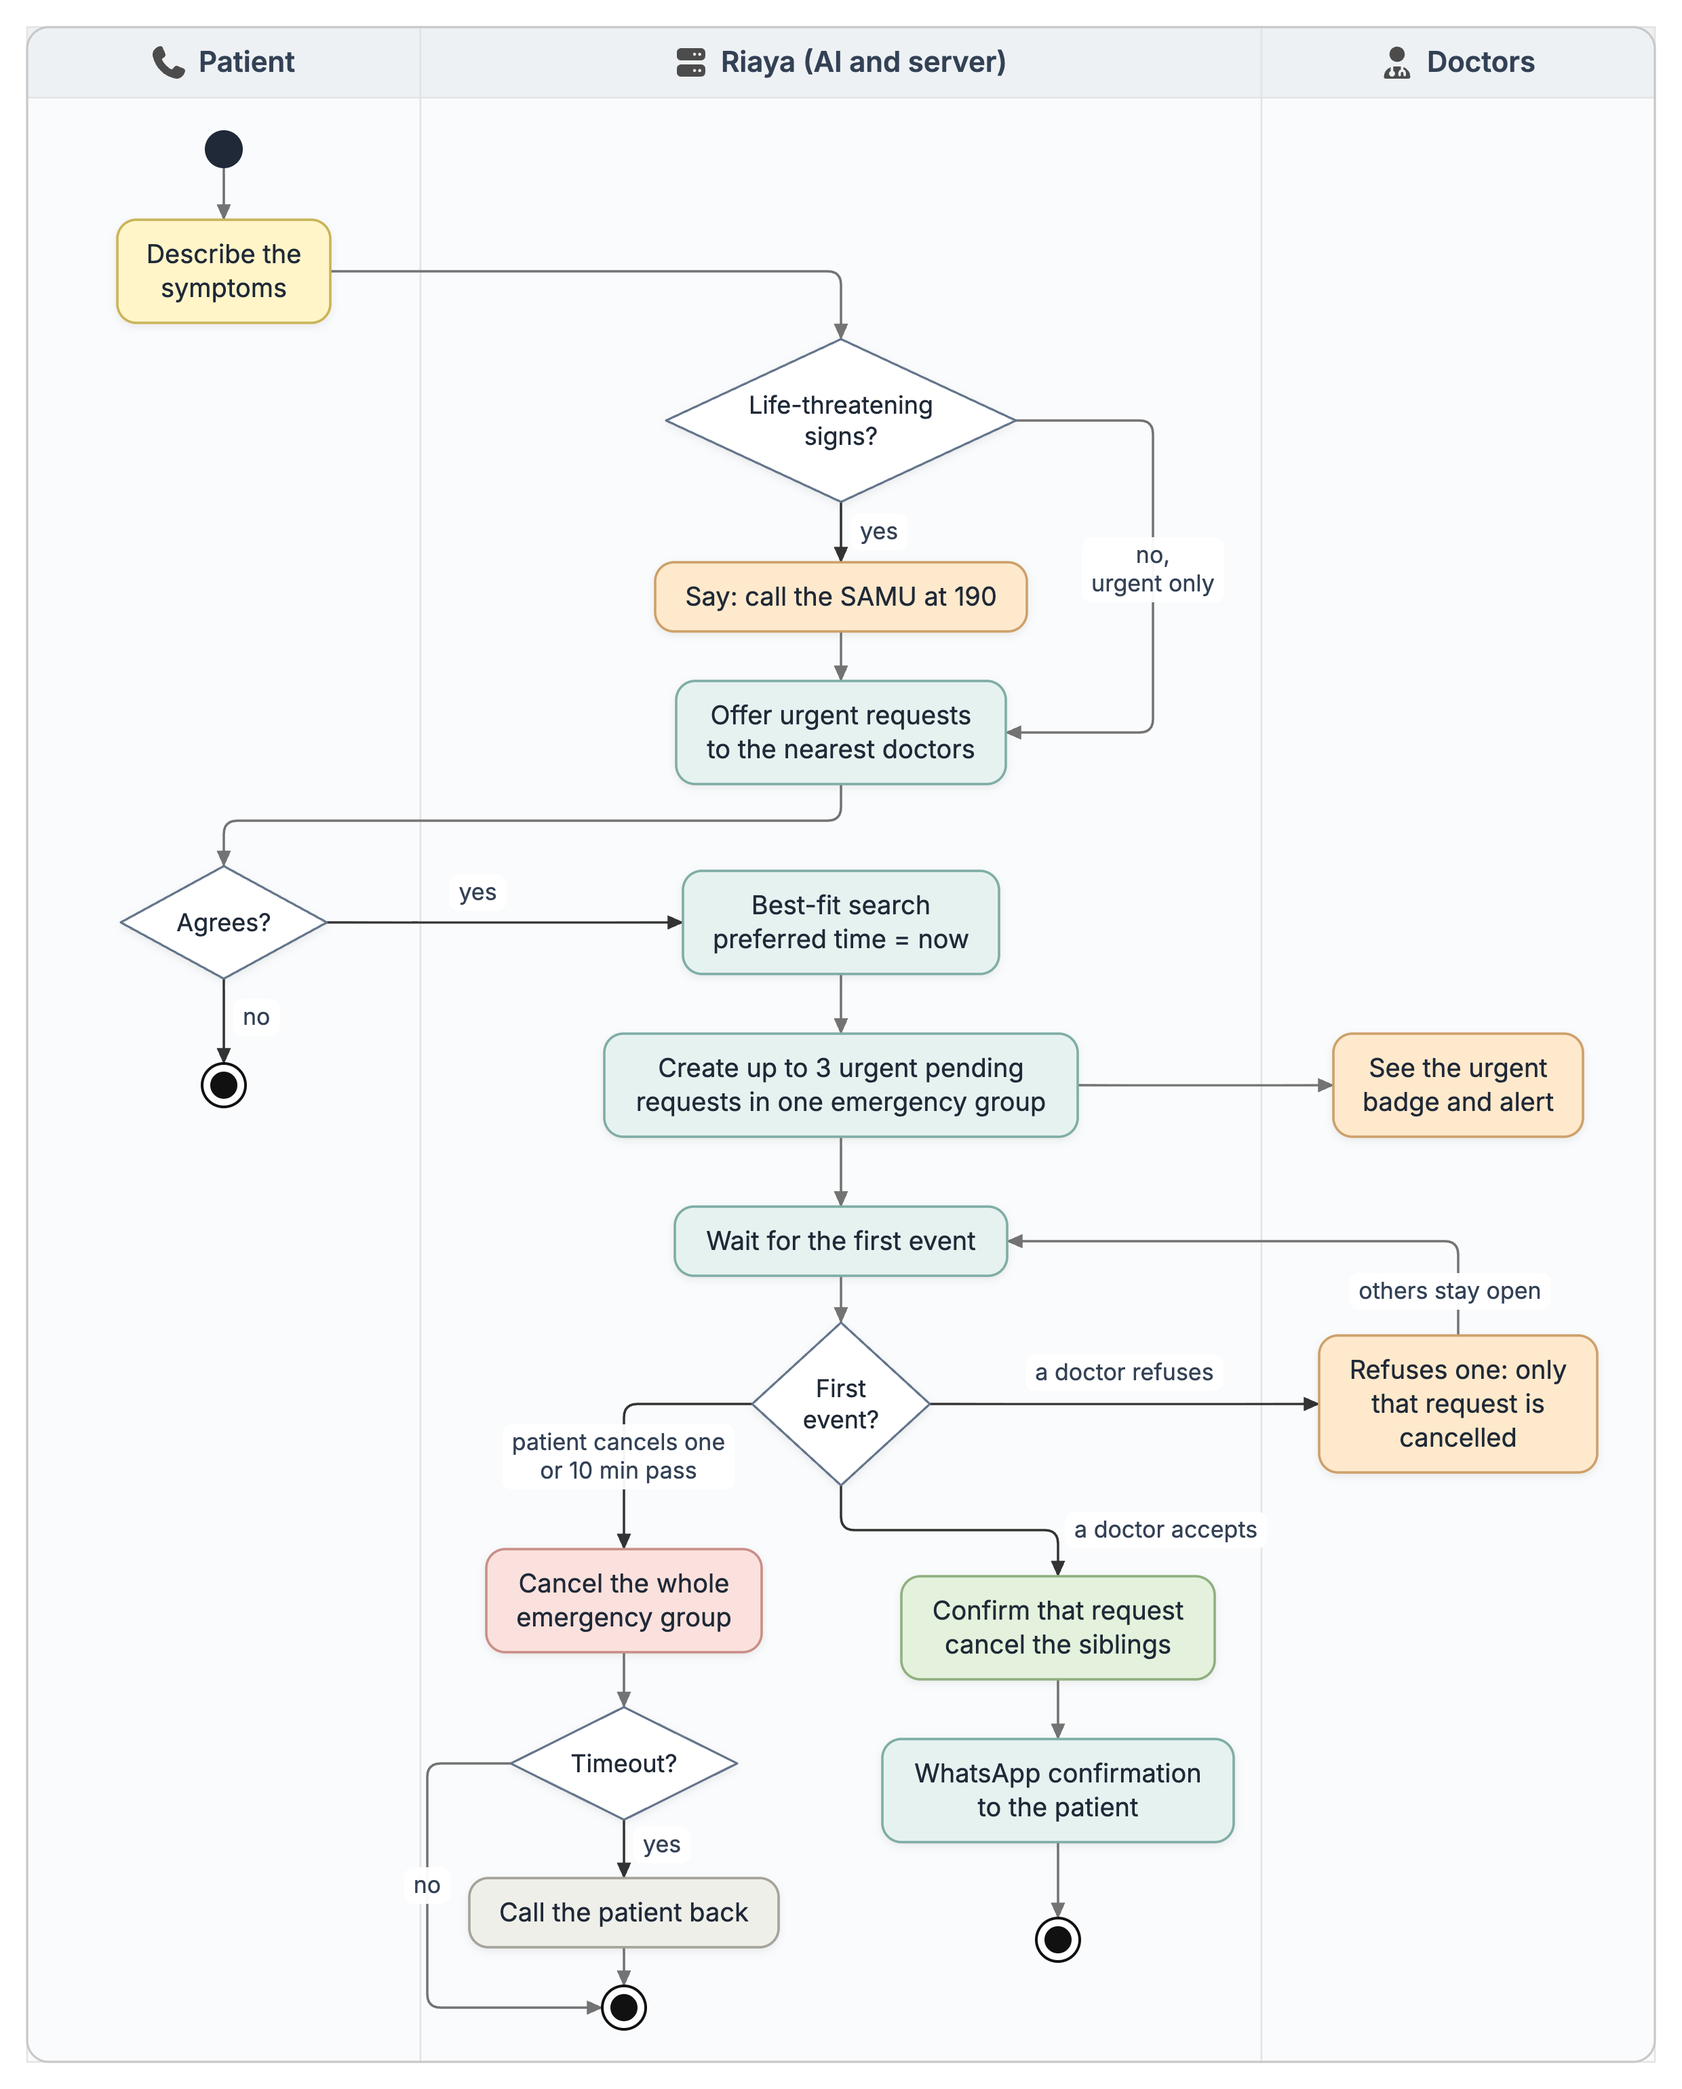
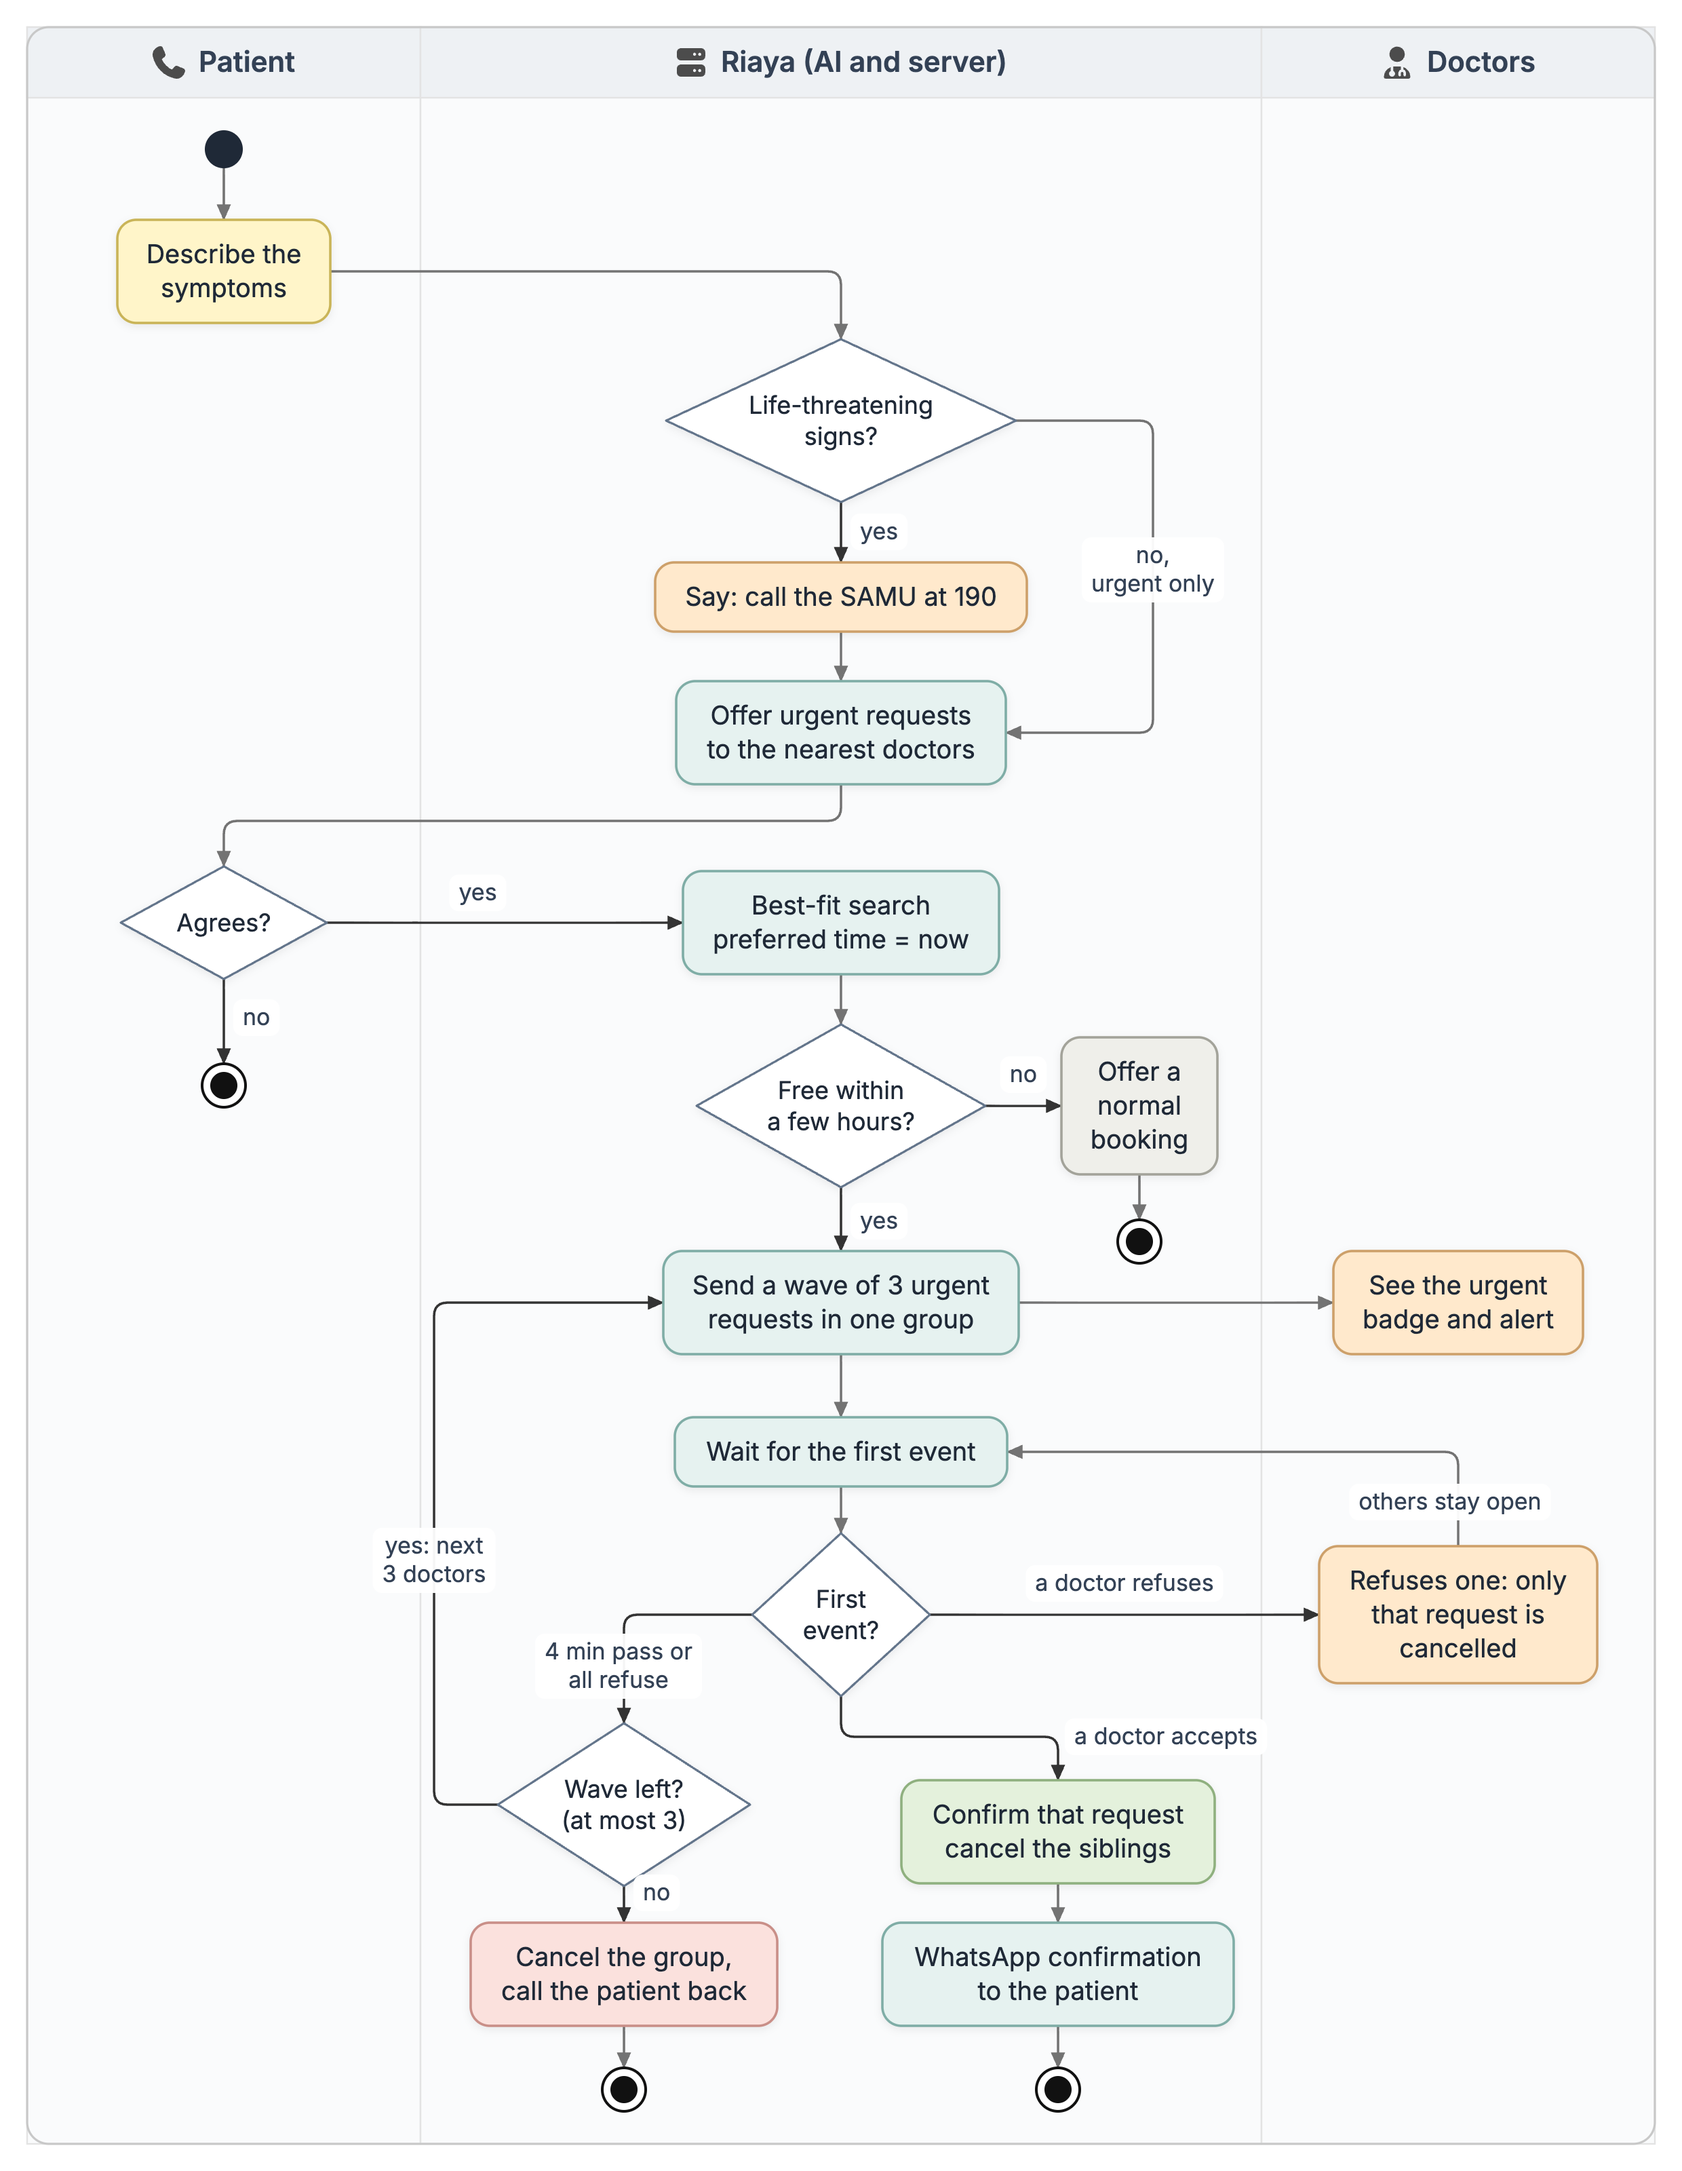
Describe urgent requests as waves of doctors who can see the patient soon
Chapter 2, chapter 3b and the urgent activity diagram now show the 6-hour
check with a normal booking as fallback, waves of 3 requests (4 minutes each,
at most 3 waves), the next wave starting when all refuse, and the callback
only after the last wave.

diff --git a/images/diagrams/src/activity_urgent_booking.js b/images/diagrams/src/activity_urgent_booking.js
@@ -1,14 +1,15 @@
-// Activity: urgent booking (SAMU advice, emergency group of up to 3 requests, first accept wins).
+// Activity: urgent booking (SAMU advice, doctors free within a few hours, waves of 3 requests, first accept wins).
 const I = 'icons/';
 function draw(K) {
-  K.init(1240, 1540);
+  K.init(1240, 1600);
   const E = (o) => K.edge(o);
-  const ln = K.lanes({x: 20, y: 20, h: 1500, lanes: [
+  const ln = K.lanes({x: 20, y: 20, h: 1560, lanes: [
     {key: 'P', kind: 'patient', title: 'Patient', w: 290, icon: I + 'phone.svg'},
     {key: 'R', kind: 'sys', title: 'Riaya (AI and server)', w: 620, icon: I + 'server.svg'},
     {key: 'D', kind: 'admin', title: 'Doctors', w: 290, icon: I + 'user-doctor.svg'},
   ]});
   const P = ln.P, R = ln.R, D = ln.D, RL = R - 160, RR = R + 160;
+  const LOOP = RL - 140;
 
   K.start({id: 's', cx: P, cy: 110});
   K.act({id: 'sym', cx: P, cy: 200, text: 'Describe the\nsymptoms', kind: 'patient'});
@@ -18,18 +19,20 @@ function draw(K) {
   K.dec({id: 'agree', cx: P, cy: 680, text: 'Agrees?'});
   K.end({id: 'e0', cx: P, cy: 800});
   K.act({id: 'fit', cx: R, cy: 680, text: 'Best-fit search\npreferred time = now', kind: 'sys'});
-  K.act({id: 'create', cx: R, cy: 800, text: 'Create up to 3 urgent pending\nrequests in one emergency group', kind: 'sys'});
-  K.act({id: 'badge', cx: D, cy: 800, text: 'See the urgent\nbadge and alert', kind: 'admin'});
-  K.act({id: 'wait', cx: R, cy: 915, text: 'Wait for the first event', kind: 'sys'});
-  K.dec({id: 'ev', cx: R, cy: 1035, text: 'First\nevent?'});
-  K.act({id: 'refuse', cx: D, cy: 1035, text: 'Refuses one: only\nthat request is\ncancelled', kind: 'admin'});
-  K.act({id: 'cancel', cx: RL, cy: 1180, text: 'Cancel the whole\nemergency group', kind: 'bad'});
-  K.dec({id: 'to', cx: RL, cy: 1300, text: 'Timeout?'});
-  K.act({id: 'cb', cx: RL, cy: 1410, text: 'Call the patient back', kind: 'neutral'});
-  K.act({id: 'acc', cx: RR, cy: 1200, text: 'Confirm that request\ncancel the siblings', kind: 'good'});
-  K.act({id: 'wa', cx: RR, cy: 1320, text: 'WhatsApp confirmation\nto the patient', kind: 'sys'});
-  K.end({id: 'e1', cx: RR, cy: 1430});
-  K.end({id: 'e2', cx: RL, cy: 1480});
+  K.dec({id: 'soon', cx: R, cy: 815, text: 'Free within\na few hours?'});
+  K.act({id: 'normal', cx: RR + 60, cy: 815, text: 'Offer a\nnormal\nbooking', kind: 'neutral'});
+  K.end({id: 'e3', cx: RR + 60, cy: 915});
+  K.act({id: 'create', cx: R, cy: 960, text: 'Send a wave of 3 urgent\nrequests in one group', kind: 'sys'});
+  K.act({id: 'badge', cx: D, cy: 960, text: 'See the urgent\nbadge and alert', kind: 'admin'});
+  K.act({id: 'wait', cx: R, cy: 1070, text: 'Wait for the first event', kind: 'sys'});
+  K.dec({id: 'ev', cx: R, cy: 1190, text: 'First\nevent?'});
+  K.act({id: 'refuse', cx: D, cy: 1190, text: 'Refuses one: only\nthat request is\ncancelled', kind: 'admin'});
+  K.dec({id: 'more', cx: RL, cy: 1330, text: 'Wave left?\n(at most 3)'});
+  K.act({id: 'cb', cx: RL, cy: 1455, text: 'Cancel the group,\ncall the patient back', kind: 'bad'});
+  K.end({id: 'e2', cx: RL, cy: 1540});
+  K.act({id: 'acc', cx: RR, cy: 1350, text: 'Confirm that request\ncancel the siblings', kind: 'good'});
+  K.act({id: 'wa', cx: RR, cy: 1455, text: 'WhatsApp confirmation\nto the patient', kind: 'sys'});
+  K.end({id: 'e1', cx: RR, cy: 1540});
 
   E({pts: [K.P('s', 'b'), K.P('sym', 't')]});
   E({pts: [K.P('sym', 'r'), [R, K.P('sym', 'r')[1]], K.P('life', 't')]});
@@ -43,27 +46,32 @@ function draw(K) {
   K.guard((K.P('agree', 'r')[0] + K.P('fit', 'l')[0]) / 2 - 20, 658, 'yes', '#111111');
   E({pts: [K.P('agree', 'b'), K.P('e0', 't')], kind: 'amber'});
   K.guard(P + 14, 750, 'no', '#111111', 'start');
-  E({pts: [K.P('fit', 'b'), K.P('create', 't')]});
+  E({pts: [K.P('fit', 'b'), K.P('soon', 't')]});
+  // nobody free soon
+  E({pts: [K.P('soon', 'r'), K.P('normal', 'l')], kind: 'amber'});
+  K.guard((K.P('soon', 'r')[0] + K.P('normal', 'l')[0]) / 2, 792, 'no', '#111111');
+  E({pts: [K.P('normal', 'b'), K.P('e3', 't')]});
+  E({pts: [K.P('soon', 'b'), K.P('create', 't')], kind: 'amber'});
+  K.guard(R + 14, 900, 'yes', '#111111', 'start');
   E({pts: [K.P('create', 'r'), K.P('badge', 'l')]});
   E({pts: [K.P('create', 'b'), K.P('wait', 't')]});
   E({pts: [K.P('wait', 'b'), K.P('ev', 't')]});
   // refusal loop
   E({pts: [K.P('ev', 'r'), K.P('refuse', 'l')], kind: 'amber'});
-  K.guard((K.P('ev', 'r')[0] + K.P('refuse', 'l')[0]) / 2, 1012, 'a doctor refuses');
-  E({pts: [K.P('refuse', 't'), [D, 915], K.P('wait', 'r')]});
-  K.guard(D - 6, 952, 'others stay open', '#111111');
-  // patient cancel or timeout
-  E({pts: [K.P('ev', 'l'), [RL, 1035], K.P('cancel', 't')], kind: 'amber'});
-  K.guard(RL - 4, 1074, 'patient cancels one\nor 10 min pass', '#333333');
-  E({pts: [K.P('cancel', 'b'), K.P('to', 't')]});
-  E({pts: [K.P('to', 'b'), K.P('cb', 't')], kind: 'amber'});
-  K.guard(RL + 14, 1360, 'yes', '#111111', 'start');
+  K.guard((K.P('ev', 'r')[0] + K.P('refuse', 'l')[0]) / 2, 1167, 'a doctor refuses');
+  E({pts: [K.P('refuse', 't'), [D, 1070], K.P('wait', 'r')]});
+  K.guard(D - 6, 1107, 'others stay open', '#111111');
+  // wave over: next wave or callback
+  E({pts: [K.P('ev', 'l'), [RL, 1190], K.P('more', 't')], kind: 'amber'});
+  K.guard(RL - 4, 1228, '4 min pass or\nall refuse', '#333333');
+  E({pts: [K.P('more', 'l'), [LOOP, 1330], [LOOP, 960], K.P('create', 'l')], kind: 'amber'});
+  K.guard(LOOP, 1150, 'yes: next\n3 doctors', '#111111');
+  E({pts: [K.P('more', 'b'), K.P('cb', 't')], kind: 'amber'});
+  K.guard(RL + 14, 1395, 'no', '#111111', 'start');
   E({pts: [K.P('cb', 'b'), K.P('e2', 't')]});
-  E({pts: [K.P('to', 'l'), [RL - 145, 1300], [RL - 145, 1480], K.P('e2', 'l')]});
-  K.guard(RL - 145, 1390, 'no');
   // accept
-  E({pts: [K.P('ev', 'b'), [R, 1128], [RR, 1128], K.P('acc', 't')], kind: 'amber'});
-  K.guard(RR + 12, 1128, 'a doctor accepts', '#111111', 'start');
+  E({pts: [K.P('ev', 'b'), [R, 1280], [RR, 1280], K.P('acc', 't')], kind: 'amber'});
+  K.guard(RR + 12, 1280, 'a doctor accepts', '#111111', 'start');
   E({pts: [K.P('acc', 'b'), K.P('wa', 't')]});
   E({pts: [K.P('wa', 'b'), K.P('e1', 't')]});
 }

diff --git a/chap_03b.tex b/chap_03b.tex
@@ -52,7 +52,7 @@ While the patient waits on the line, the platform has to turn ``a dermatologist 
 
 Some callers are in danger. When a caller describes signs of a life-threatening condition, such as chest pain, trouble breathing, signs of a stroke, heavy bleeding, fainting, a seizure or a serious injury, the AI first tells them to call the SAMU at 190. Riaya books visits and does not replace the emergency services, so the offer of urgent requests to nearby doctors only comes after that advice. For urgent cases that are not life-threatening, the AI asks whether the patient wants the closest available doctors right now. \xref{fig:activity_urgent} in \chapref{chap:management} shows the whole flow.
 
-A patient in an urgent case should not wait 10 minutes for one doctor and then start again. An urgent booking therefore runs the best-fit search with ``now'' as the preferred time and sends up to 3 pending requests at once, all sharing one emergency group id. The first doctor to accept keeps the patient and the other requests of the group are cancelled automatically, so the patient never ends up with several appointments. A doctor who refuses cancels only their own request, since the others can still accept, and for the same reason a refused urgent request triggers no callback. When the patient cancels one urgent request by phone, the whole group is cancelled. If nobody accepts within 10 minutes, a delayed BullMQ job cancels the group and Riaya calls the patient back, as for a normal request. Urgent requests are never limited by a doctor's plan. The delayed jobs and the events between the servers follow the message-based style described by Hohpe and Woolf.
+A patient in an urgent case should not wait 10 minutes for one doctor and then start again. An urgent booking therefore runs the best-fit search with ``now'' as the preferred time and keeps only the doctors inside the search radius whose first free slot starts within the next 6 hours, once the drive to the cabinet is counted. If no doctor qualifies, no request is sent and the AI offers a normal booking. Otherwise the requests go out in waves. The first wave sends pending requests to the 3 best doctors, all sharing one emergency group id. The first doctor to accept keeps the patient and the other requests of the group are cancelled automatically, so the patient never ends up with several appointments. A doctor who refuses cancels only their own request, since the others can still accept. If nobody in the wave accepts within 4 minutes, a delayed BullMQ job cancels its open requests and sends the next 3 doctors who were not asked yet, for at most 3 waves. When every doctor of a wave refuses, the next wave starts right away. Riaya calls the patient back, as for a normal request, only after the last wave or when no other doctor qualifies. When the patient cancels one urgent request by phone, the whole group is cancelled. Urgent requests are never limited by a doctor's plan. The delayed jobs and the events between the servers follow the message-based style described by Hohpe and Woolf.
 
 \subsection{Refusals and Callbacks}
 \label{subsec:rejection-handling}

diff --git a/chap_02.tex b/chap_02.tex
@@ -258,7 +258,7 @@ The two activity diagrams use swimlanes to show who does each step. Decisions ar
     \label{fig:activity_signup}
 \end{figure}
 
-\xref{fig:activity_urgent} shows an urgent booking. The patient describes the symptoms. If the signs are life-threatening, the AI first tells the patient to call the SAMU at 190, then offers urgent requests to the nearest doctors. For an urgent case that is not life-threatening, it offers the urgent requests directly. If the patient agrees, Riaya runs the best-fit search with the preferred time set to now and creates up to three urgent pending requests in one emergency group. The doctors see an urgent badge and a stronger alert, and Riaya waits for the first event. If a doctor accepts, that request is confirmed, the sibling requests are cancelled and the patient receives a WhatsApp confirmation. If a doctor refuses, only that request is cancelled and the others stay open. If the patient cancels one of the requests, or 10 minutes pass with no acceptance, the whole group is cancelled, and Riaya calls the patient back only in the timeout case.
+\xref{fig:activity_urgent} shows an urgent booking. The patient describes the symptoms. If the signs are life-threatening, the AI first tells the patient to call the SAMU at 190, then offers urgent requests to the nearest doctors. For an urgent case that is not life-threatening, it offers the urgent requests directly. If the patient agrees, Riaya runs the best-fit search with the preferred time set to now and keeps the nearby doctors who can see the patient within a few hours. If there are none, the AI offers a normal booking. Otherwise Riaya creates three urgent pending requests in one emergency group. The doctors see an urgent badge and a stronger alert, and Riaya waits for the first event. If a doctor accepts, that request is confirmed, the sibling requests are cancelled and the patient receives a WhatsApp confirmation. If a doctor refuses, only that request is cancelled and the others stay open. If the patient cancels one of the requests, the whole group is cancelled. If nobody accepts in time, or every doctor refuses, Riaya sends the next wave of requests to other doctors, and calls the patient back only when no wave is left.
 
 \begin{figure}[H]
     \centering
